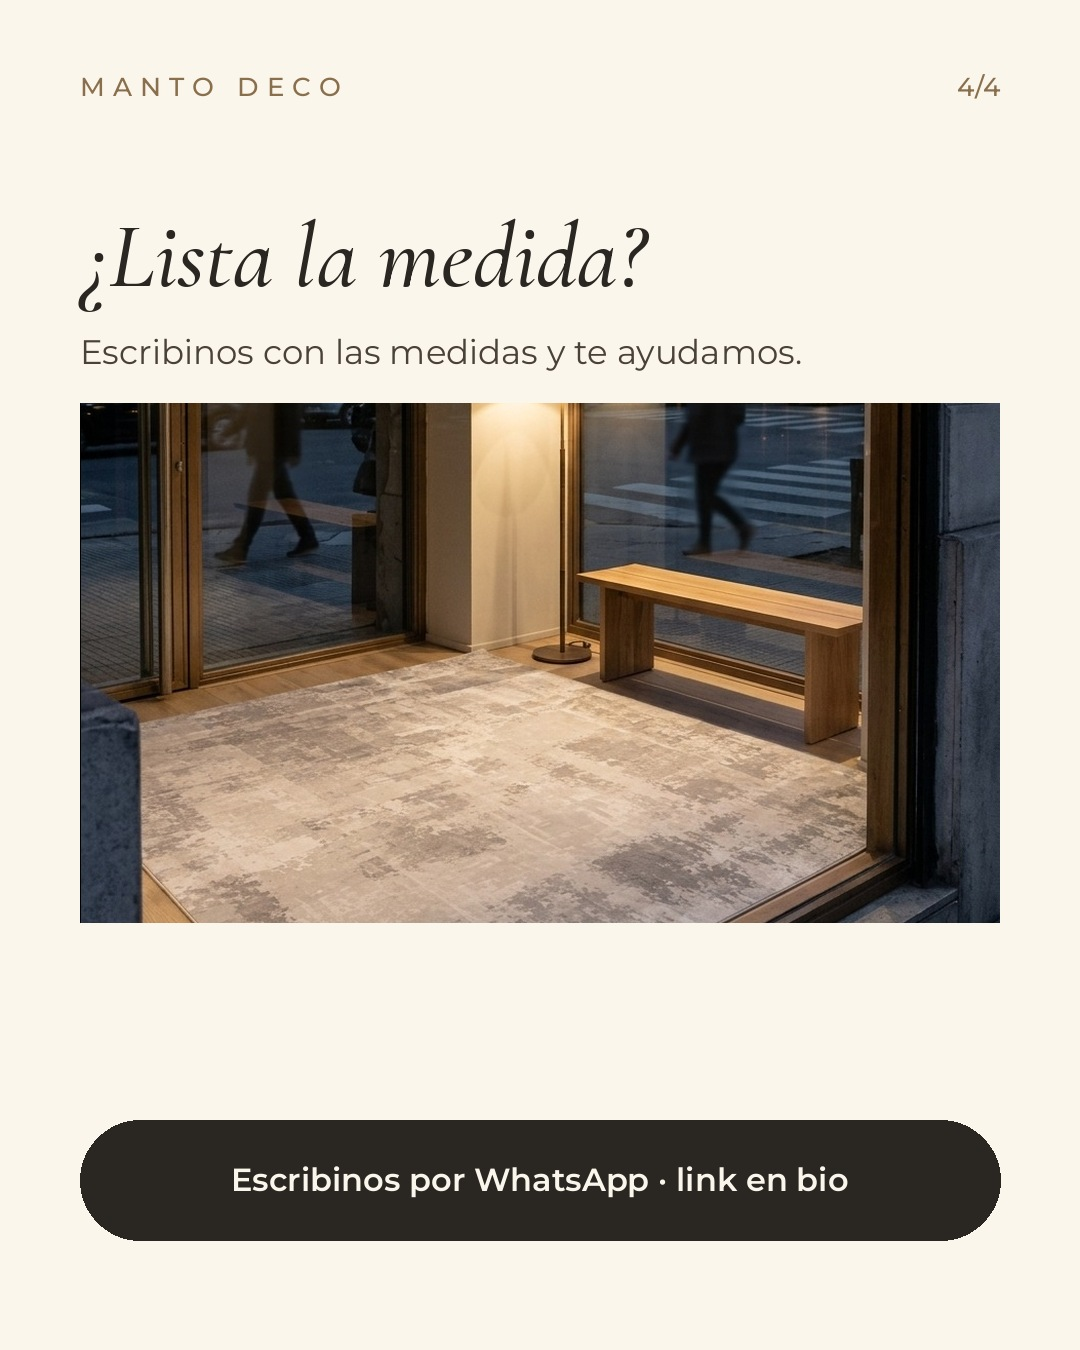
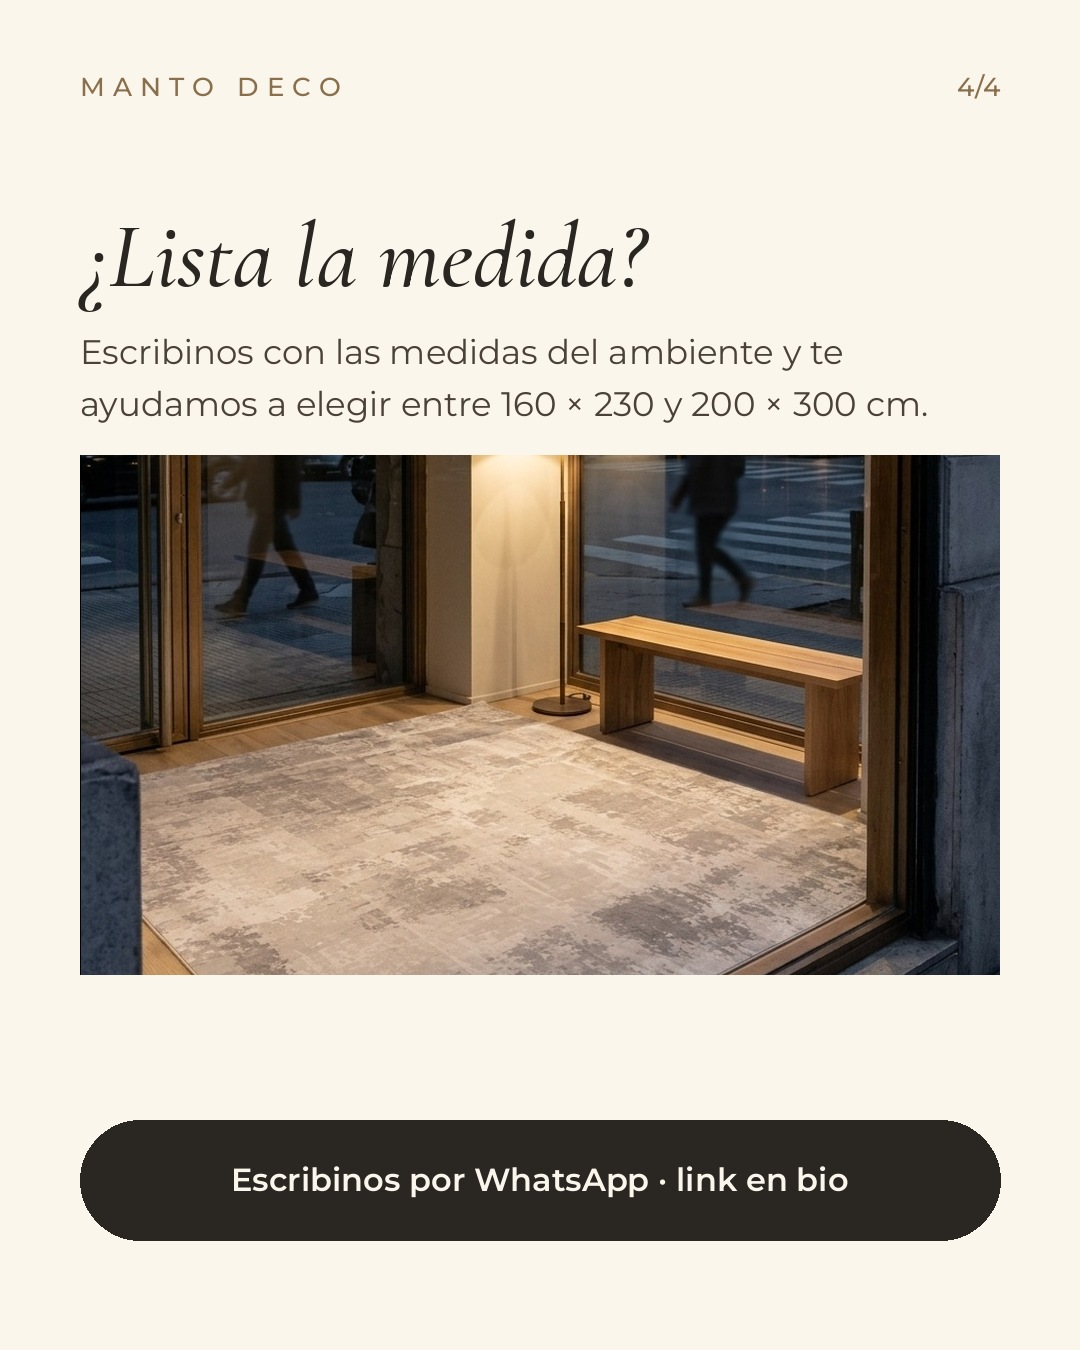
Carruseles con medidas 160x230 y 200x300
Claude-Session: https://claude.ai/code/session_01YKoTxCrj5xKWdUwNNow3Zz

Changed region(s): [[0.0611, 0.2489, 0.9472, 0.7467], [0.8556, 0.3733, 0.9167, 0.4356], [0.8861, 0.4978, 0.9167, 0.5289]]

diff --git a/chispa/carruseles2.py b/chispa/carruseles2.py
@@ -24,7 +24,7 @@ def plan(d,b,kind):
         rug((.1,.12,.8,.72),True,'Las sillas quedan siempre sobre la alfombra');R(d,b,(.3,.3,.4,.34),(120,104,88))
         for cx in(.36,.5,.64):R(d,b,(cx-.05,.22,.1,.07),FURN);R(d,b,(cx-.05,.65,.1,.07),FURN)
     elif kind=='dormi':
-        rug((.1,.30,.8,.58),True,'Sobresale 60 cm a los lados y al pie');R(d,b,(.26,.04,.48,.46),FURN);R(d,b,(.26,.04,.48,.07),(110,94,78));R(d,b,(.14,.06,.09,.09),(120,104,88));R(d,b,(.77,.06,.09,.09),(120,104,88))
+        rug((.1,.30,.8,.58),True,'Debajo de dos tercios de la cama');R(d,b,(.26,.04,.48,.46),FURN);R(d,b,(.26,.04,.48,.07),(110,94,78));R(d,b,(.14,.06,.09,.09),(120,104,88));R(d,b,(.77,.06,.09,.09),(120,104,88))
     elif kind=='pasillo':
         R(d,b,(.34,.04,.32,.84),SAND,BROWN);pend.append((x+bw*.5,y+bh*.45,True));R(d,b,(.3,.93,.4,.04),(120,104,88),rad=4);d.text((x+bw/2,y+bh-18),'Corredor: deja 10 cm de piso a cada lado',font=M(24,600),fill=DARK,anchor='mm')
     for a,b_,c in pend:mark(d,a,b_,c)
@@ -87,46 +87,46 @@ def build(slug,slides):
     for i,(fn,a) in enumerate(slides,1):fn(i,tot,*a,out=f'{o}/slide_{i}.jpg')
 CAR={
 'medidas':[(s_cover,('Guía de medidas: qué alfombra para cada ambiente','Guardala',F+'living-gris-1.png',.6)),
- (s_plan,('Living','El punto de partida','Las patas delanteras del sillón sobre la alfombra.','l_ok')),
- (s_plan,('Comedor','La mesa y las sillas','Que las sillas queden sobre la alfombra aunque las muevas.','comedor')),
- (s_plan,('Dormitorio','Pensá en la cama','Que sobresalga a los lados y al pie, así pisás suave al levantarte.','dormi')),
- (s_plan,('Entrada y pasillo','Corredores','Elegí una medida angosta y larga, con aire a los lados.','pasillo')),
- (s_end,('¿Dudas con la medida?','Te asesoramos para que aciertes.',F+'n6-living-silla-rayas.jpg'))],
+ (s_plan,('Living','El punto de partida','Con sillón y mesa ratona, la de 200 × 300 cm deja las patas delanteras sobre la alfombra. Para livings más chicos: 160 × 230 cm.','l_ok')),
+ (s_plan,('Comedor','La mesa y las sillas','Mesa de 4 personas: 160 × 230 cm. Mesa de 6: 200 × 300 cm. Que las sillas queden sobre la alfombra al correrlas.','comedor')),
+ (s_plan,('Dormitorio','Pensá en la cama','Cama de 2 plazas: 200 × 300 cm debajo de dos tercios de la cama. Cama de 1 plaza: 160 × 230 cm.','dormi')),
+ (s_list,('Resumen','Dos medidas, mil usos',[('160 × 230 cm','Dormitorios, cuartos de chicos, home office y livings chicos.'),('200 × 300 cm','Livings amplios, comedores y debajo de la cama.')])),
+ (s_end,('¿Dudas con la medida?','Tenemos 160 × 230 y 200 × 300 cm. Te asesoramos.',F+'n6-living-silla-rayas.jpg'))],
 'achica':[(s_cover,('¿Tu alfombra hace que el living se vea más chico?','Mirá el antes y el después',F+'n6-vidriera-sillon-beige.jpg',.6)),
  (s_plan,('Antes','Muy chica','Flota en el medio y corta el espacio en pedazos.','l_small')),
- (s_plan,('Después','Justa','Conecta los muebles y el living se ve más amplio.','l_ok')),
+ (s_plan,('Después','Justa','Con 200 × 300 cm, conecta los muebles y el living se ve más amplio. Si es chico, 160 × 230 cm.','l_ok')),
  (s_plan,('Ojo','Muy grande','Sin borde de piso, el ambiente pierde aire.','l_big')),
- (s_end,('La medida correcta cambia todo.','Contanos tu ambiente y te ayudamos.',F+'ia-living-azul.jpg'))],
+ (s_end,('La medida correcta cambia todo.','Tenemos 160 × 230 y 200 × 300 cm. Contanos tu ambiente.',F+'ia-living-azul.jpg'))],
 'combinar':[(s_cover,('Cómo combinar tu alfombra con el living','4 ideas simples',F+'living-ondas-3.png',.55)),
  (s_photo,('Idea 1','Tono sobre tono','Sillón claro y alfombra clara: ambiente calmo, luminoso y amplio.',F+'n6-vidriera-sillon-beige.jpg',.5)),
  (s_photo,('Idea 2','Contraste suave','Sillón oscuro y alfombra clara para dar luz sin perder carácter.',F+'living-azul-5.png',.55)),
  (s_photo,('Idea 3','Un toque de color','Si todo es neutro, que la alfombra sea la que sume el color.',F+'ia-living-azul.jpg',.55)),
  (s_photo,('Idea 4','Textura sobre todo','En ambientes neutros, la trama hace el trabajo: suma calidez y profundidad.',F+'n6-living-silla-rayas.jpg',.55)),
- (s_end,('Guardalo para cuando elijas.','¿Qué color va con tu living? Escribinos.',F+'living-rosa-2.png'))],
+ (s_end,('Guardalo para cuando elijas.','Disponibles en 160 × 230 y 200 × 300 cm.',F+'living-rosa-2.png'))],
 'cuidado':[(s_cover,('Cómo cuidar tu alfombra para que dure','Tips simples',F+'n6-gato-siesta-beige.jpg',.55)),
  (s_list,('Rutina','Lo básico',[('Aspirá seguido','Evitá que se acumule polvo en la trama.'),('Rotala de vez en cuando','Así se desgasta parejo.'),('Cuidá el sol directo','Mucha exposición puede apagar los colores.')])),
  (s_list,('Manchas','Si se cae algo',[('Actuá rápido','Absorbé con un paño limpio, sin frotar.'),('Probá en un rincón','Antes de usar cualquier producto.'),('Dudas con el material','Consultanos y te decimos qué conviene.')])),
  (s_list,('Hogar','Pensando en el día a día',[('Base antideslizante','Evita corrimientos y cuida el piso.'),('Muebles pesados','Usá protectores para no marcar la trama.'),('Mascotas y chicos','Una trama fácil de limpiar ayuda muchísimo.')])),
  (s_end,('Una alfombra bien cuidada dura más.','Escribinos y te asesoramos.',F+'n6-autito-nene-rayas.jpg'))],
 'mitos':[(s_cover,('Mitos y verdades sobre las alfombras','Sin vueltas',F+'n6-gato-caja-rayas.jpg',.5)),
- (s_list,('Mito 1','"Achican el ambiente"',[('Verdad','Una alfombra muy chica sí. Con la medida correcta, el ambiente se ve más grande.')])),
+ (s_list,('Mito 1','"Achican el ambiente"',[('Verdad','Una alfombra muy chica sí. Con la medida correcta (160 × 230 o 200 × 300 cm), el ambiente se ve más grande.')])),
  (s_list,('Mito 2','"Son solo para el living"',[('Verdad','Quedan bien en dormitorio, comedor, home office, cuarto de chicos y entrada.')])),
  (s_list,('Mito 3','"Todas son iguales"',[('Verdad','Cambian el diseño, la trama, el tamaño y cómo se sienten al pisar.')])),
  (s_list,('Mito 4','"Las claras no se pueden usar"',[('Verdad','Se pueden. Elegir bien la trama y cuidarla es la clave.')])),
  (s_end,('¿Qué otro mito escuchaste?','Contanos en los comentarios.',F+'n6-dormitorio-rosa-min.jpg'))],
 'ambientes':[(s_cover,('Una alfombra para cada ambiente','Ideas para toda la casa',F+'n6-dormitorio-maleta-gris.jpg',.55)),
- (s_photo,('Living','El centro de la casa','Define el espacio y reúne los muebles.',F+'n6-living-silla-rayas.jpg',.55)),
- (s_photo,('Dormitorio','Suave al despertar','El primer paso del día, resuelto.',F+'n6-dormitorio-rosa-min.jpg',.55)),
- (s_photo,('Cuarto de chicos','Para jugar en el piso','Un lugar blando para el autito, el cuento y la siesta.',F+'n6-autito-nene-rayas.jpg',.7)),
- (s_photo,('Home office','Donde se trabaja mejor','Amortigua el sonido y le da calidez al escritorio.',F+'ia-real-azul-trabajo.png',.55)),
- (s_photo,('Entrada','La primera impresión','Una bienvenida con textura.',F+'n6-vidriera-gris-noche.jpg',.6)),
- (s_end,('¿Cuál es el tuyo?','Escribinos y te mostramos opciones.',F+'n6-vidriera-sillon-beige.jpg'))],
+ (s_photo,('Living','El centro de la casa','Define el espacio y reúne los muebles. Medida sugerida: 200 × 300 cm.',F+'n6-living-silla-rayas.jpg',.55)),
+ (s_photo,('Dormitorio','Suave al despertar','El primer paso del día, resuelto. Medida sugerida: 160 × 230 cm (1 plaza) o 200 × 300 cm (2 plazas).',F+'n6-dormitorio-rosa-min.jpg',.55)),
+ (s_photo,('Cuarto de chicos','Para jugar en el piso','Un lugar blando para el autito, el cuento y la siesta. Medida sugerida: 160 × 230 cm.',F+'n6-autito-nene-rayas.jpg',.7)),
+ (s_photo,('Home office','Donde se trabaja mejor','Amortigua el sonido y le da calidez al escritorio. Medida sugerida: 160 × 230 cm.',F+'ia-real-azul-trabajo.png',.55)),
+ (s_photo,('Entrada','La primera impresión','Una bienvenida con textura. Si hay lugar, 160 × 230 cm.',F+'n6-vidriera-gris-noche.jpg',.6)),
+ (s_end,('¿Cuál es el tuyo?','Disponibles en 160 × 230 y 200 × 300 cm.',F+'n6-vidriera-sillon-beige.jpg'))],
 'checklist':[(s_cover,('Antes de comprar tu alfombra','Checklist para guardar',F+'ia-lectura-rayas.jpg',.55)),
- (s_list,('Paso a paso','Antes de elegir',[('Medí el ambiente','Marcá con cinta el borde de la alfombra en el piso.'),('Mirá la luz','Fijate cómo cambia el color de día y de noche.'),('Pensá en el uso','¿Chicos, mascotas, mucho tránsito?')])),
+ (s_list,('Paso a paso','Antes de elegir',[('Medí el ambiente','Marcá con cinta el borde: 160 × 230 o 200 × 300 cm.'),('Mirá la luz','Fijate cómo cambia el color de día y de noche.'),('Pensá en el uso','¿Chicos, mascotas, mucho tránsito?')])),
  (s_list,('Paso a paso','Al decidir',[('Elegí la trama','Que te guste al verla y al pisarla.'),('Sumá la base','Antideslizante para que no se corra.'),('Consultá tamaños','Pedinos opciones y te asesoramos.')])),
- (s_end,('¿Lista la medida?','Escribinos con las medidas y te ayudamos.',F+'n6-vidriera-gris-noche.jpg'))],
+ (s_end,('¿Lista la medida?','Escribinos con las medidas del ambiente y te ayudamos a elegir entre 160 × 230 y 200 × 300 cm.',F+'n6-vidriera-gris-noche.jpg'))],
 'locales':[(s_cover,('¿Tenés un local de decoración, muebles o bazar?','Sumá alfombras importadas',F+'n6-ventanal-beige-noche.jpg',.55)),
- (s_list,('Para locales','Por qué sumar alfombras',[('Completan el ambiente','Quien compra un sillón suele necesitar una alfombra.'),('Se lucen en vidriera','Una alfombra transforma cualquier exhibición.'),('Variedad de diseños','Distintas medidas, texturas y colores.')])),
+ (s_list,('Para locales','Por qué sumar alfombras',[('Completan el ambiente','Quien compra un sillón suele necesitar una alfombra.'),('Se lucen en vidriera','Una alfombra transforma cualquier exhibición.'),('Variedad de diseños','En 160 × 230 y 200 × 300 cm, con distintos colores y texturas.')])),
  (s_list,('Con Manto Deco','Trabajamos con vos',[('Alfombras importadas','Para decoración, muebleras y bazares.'),('Catálogo por WhatsApp','Pedilo y te lo mandamos.'),('Atención directa','Te asesoramos según tu local.')])),
  (s_end,('Pedí el catálogo.','Trabajamos con locales de todo el país.',F+'n6-revista-dos-alfombras.jpg'))],
 }

diff --git a/chispa/carrusel.py b/chispa/carrusel.py
@@ -22,7 +22,7 @@ def slide(n,kicker,titulo,cuerpo,foto,out,fx=.5,fy=.5):
         im.paste(cover(Image.open(foto).convert('RGB'),W-160,ph,fx,fy),(80,ph_y))
     im.save(out,quality=93)
 S=[(0,'Guía rápida','5 errores al elegir tu alfombra','Y cómo evitarlos.','fotos/n6-living-silla-rayas.jpg',.5,.5),
-(1,'Error 1','Que sea muy chica.','Si flota en el medio, el living se ve más chico. Que al menos las patas delanteras del sillón queden sobre ella.','fotos/n6-vidriera-sillon-beige.jpg',.5,.5),
+(1,'Error 1','Que sea muy chica.','Si flota en el medio, el living se ve más chico. Con 200 × 300 cm, las patas delanteras del sillón quedan sobre ella. Para espacios chicos, 160 × 230 cm.','fotos/n6-vidriera-sillon-beige.jpg',.5,.5),
 (2,'Error 2','Elegir solo por la foto.','La luz cambia el color. Mirala de día y de noche en tu ambiente antes de decidir.','fotos/ia-living-azul.jpg',.5,.5),
 (3,'Error 3','No pensar en el uso.','Con chicos o mascotas, pensá en una trama fácil de limpiar. La alfombra se vive, no se mira.','fotos/n6-autito-nene-rayas.jpg',.5,.55),
 (4,'Error 4','Tapar todo el piso.','Dejá un borde de piso a la vista: ordena el espacio y la alfombra se luce más.','fotos/n6-dormitorio-rosa-min.jpg',.5,.5),
